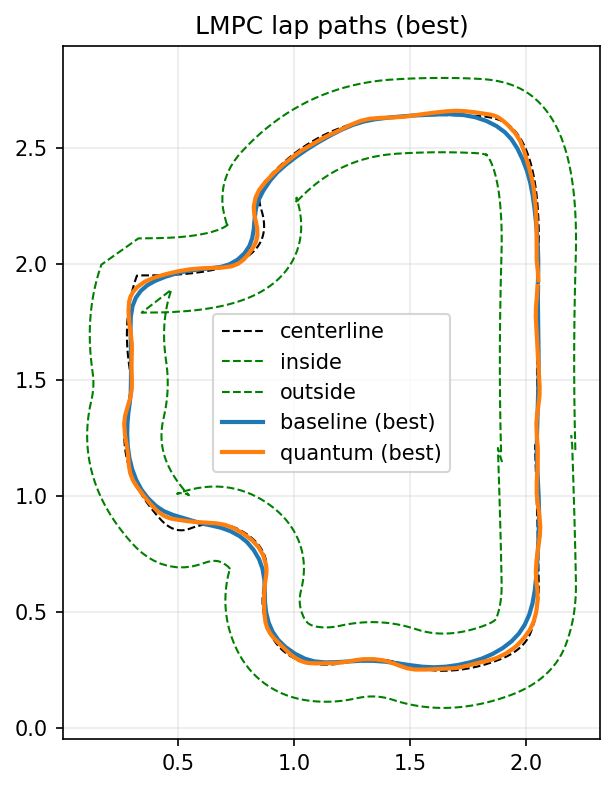
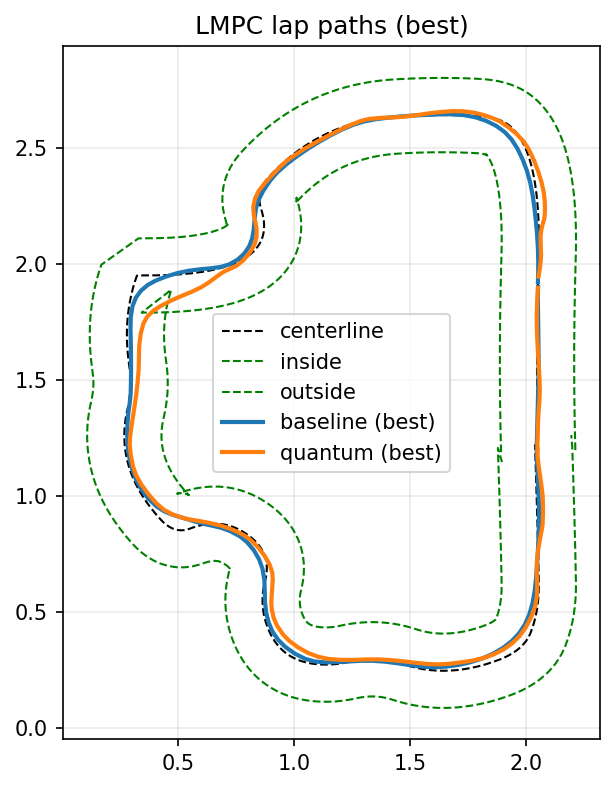
feat: no-augment avoids filters in J for quantum run

diff --git a/duckrace/lmpc/duckietown_compare.py b/duckrace/lmpc/duckietown_compare.py
@@ -64,6 +64,7 @@ def run_compare(
     quantum_start_states: int,
     quantum_min_terminal_v: float,
     quantum_min_advance_steps: int,
+    no_augment: bool = False,
 ):
     import utils
     from casadi import DM, Function, vertcat
@@ -211,6 +212,8 @@ def run_compare(
         )
         return baseline, None, traj3, np.asarray(inside, dtype=float), np.asarray(outside, dtype=float)
 
+    # When no_augment=True, set min_terminal_v_quantile=0.0 to remove all filters
+    min_terminal_v_quantile = 0.0 if no_augment else 0.5
     qcfg = QuantumLMPCAugmenterConfig(
         horizon=int(quantum_horizon),
         n_start_states=int(quantum_start_states),
@@ -218,6 +221,7 @@ def run_compare(
         sampler=QuantumSamplerConfig(backend=quantum_backend, n_iterations=1, seed=0),
         min_terminal_v=float(quantum_min_terminal_v),
         min_advance_steps=int(quantum_min_advance_steps),
+        min_terminal_v_quantile=float(min_terminal_v_quantile),
     )
 
     baseline, quantum_res = compare_lmpc_baseline_vs_quantum(
@@ -242,6 +246,8 @@ def main(argv: Optional[list[str]] = None) -> int:
     parser.add_argument("--quantum-samples-per-start", type=int, default=4)
     parser.add_argument("--quantum-min-terminal-v", type=float, default=0.45)
     parser.add_argument("--quantum-min-advance-steps", type=int, default=1)
+    parser.add_argument("--no-augment", action="store_true", default=False,
+                        help="Remove quantum augmentation filters (min_terminal_v, min_advance_steps) for fair comparison")
     parser.add_argument("--plot", action="store_true", default=False)
     parser.add_argument("--plot-out", type=str, default="assets/lmpc_compare.png")
     parser.add_argument("--feasibility-tol", type=float, default=1.05)
@@ -249,6 +255,13 @@ def main(argv: Optional[list[str]] = None) -> int:
     args = parser.parse_args(argv)
 
     cfg = DuckietownCompareConfig(n_iterations=int(args.iterations))
+    # When --no-augment is set, remove filters to allow unrestricted augmentation
+    if bool(args.no_augment):
+        quantum_min_terminal_v = 0.0
+        quantum_min_advance_steps = 0
+    else:
+        quantum_min_terminal_v = float(args.quantum_min_terminal_v)
+        quantum_min_advance_steps = int(args.quantum_min_advance_steps)
     baseline, quantum_res, traj3, inside_xy, outside_xy = run_compare(
         cfg=cfg,
         quantum=bool(args.quantum),
@@ -256,8 +269,9 @@ def main(argv: Optional[list[str]] = None) -> int:
         quantum_horizon=int(args.quantum_horizon),
         quantum_samples_per_start=int(args.quantum_samples_per_start),
         quantum_start_states=int(args.quantum_start_states),
-        quantum_min_terminal_v=float(args.quantum_min_terminal_v),
-        quantum_min_advance_steps=int(args.quantum_min_advance_steps),
+        quantum_min_terminal_v=quantum_min_terminal_v,
+        quantum_min_advance_steps=quantum_min_advance_steps,
+        no_augment=bool(args.no_augment),
     )
 
     print("baseline best lap (s):", baseline.best_lap_seconds)
@@ -283,6 +297,7 @@ def main(argv: Optional[list[str]] = None) -> int:
         from pathlib import Path
 
         from duckrace.lmpc.plotting import TrackGeometry, plot_laps, track_violation_report
+        from duckrace.lmpc.compare import plot_lap_times
 
         # Best loops (5,T)
         b_loop = baseline.plain_loops[baseline.best_loop_index]
@@ -304,6 +319,10 @@ def main(argv: Optional[list[str]] = None) -> int:
             title="LMPC lap paths (best)",
         )
         print("wrote plot:", str(out_path))
+
+        lap_times_out = out_path.with_name(f"{out_path.stem}_lap_times{out_path.suffix}")
+        plot_lap_times(out_path=lap_times_out, baseline=baseline, quantum=quantum_res)
+        print("wrote plot:", str(lap_times_out))
 
         b_rep = track_violation_report(loop_xy=b_xy, geom=geom, feasibility_tol=float(args.feasibility_tol))
         print("baseline corridor report:", b_rep)

diff --git a/duckrace/lmpc/compare.py b/duckrace/lmpc/compare.py
@@ -1,6 +1,7 @@
 from __future__ import annotations
 
 from dataclasses import dataclass
+from pathlib import Path
 from typing import Callable, Optional, Tuple
 
 import numpy as np
@@ -27,6 +28,7 @@ def compare_lmpc_baseline_vs_quantum(
     run_cfg: LMPCRunConfig,
     n_iterations: int,
     quantum_cfg: Optional[QuantumLMPCAugmenterConfig] = None,
+    enable_augment: bool = True,
 ) -> Tuple[LMPCRunResult, LMPCRunResult]:
     """
     Convenience wrapper for a baseline LMPC run vs a quantum-augmented LMPC run.
@@ -60,8 +62,44 @@ def compare_lmpc_baseline_vs_quantum(
         config=run_cfg,
         n_iterations=n_iterations,
         augmenter=augmenter,
-        augment_cfg=LMPCAugmentConfig(enabled=True),
+        augment_cfg=LMPCAugmentConfig(enabled=enable_augment),
     )
 
     return baseline, quantum
 
+
+def lap_times_seconds(result: LMPCRunResult, *, include_seed_lap: bool = True) -> np.ndarray:
+    loops = result.plain_loops if include_seed_lap else result.plain_loops[1:]
+    return np.asarray([loop.shape[1] * float(result.dt) for loop in loops], dtype=float)
+
+
+def plot_lap_times(
+    *,
+    out_path: Path,
+    baseline: LMPCRunResult,
+    quantum: Optional[LMPCRunResult] = None,
+    include_seed_lap: bool = True,
+    title: str = "Lap time per iteration",
+) -> None:
+    import matplotlib.pyplot as plt
+
+    b_times = lap_times_seconds(baseline, include_seed_lap=include_seed_lap)
+    x = np.arange(b_times.shape[0])
+
+    fig, ax = plt.subplots(figsize=(8, 4.5))
+    ax.plot(x, b_times, marker="o", lw=2, color="tab:blue", label="classical")
+
+    if quantum is not None:
+        q_times = lap_times_seconds(quantum, include_seed_lap=include_seed_lap)
+        x_q = np.arange(q_times.shape[0])
+        ax.plot(x_q, q_times, marker="o", lw=2, color="tab:orange", label="quantum")
+
+    ax.set_title(title)
+    ax.set_xlabel("Lap / iteration")
+    ax.set_ylabel("Lap time (s)")
+    ax.grid(True, alpha=0.25)
+    ax.legend()
+
+    out_path.parent.mkdir(parents=True, exist_ok=True)
+    fig.savefig(out_path, dpi=150, bbox_inches="tight")
+    plt.close(fig)
